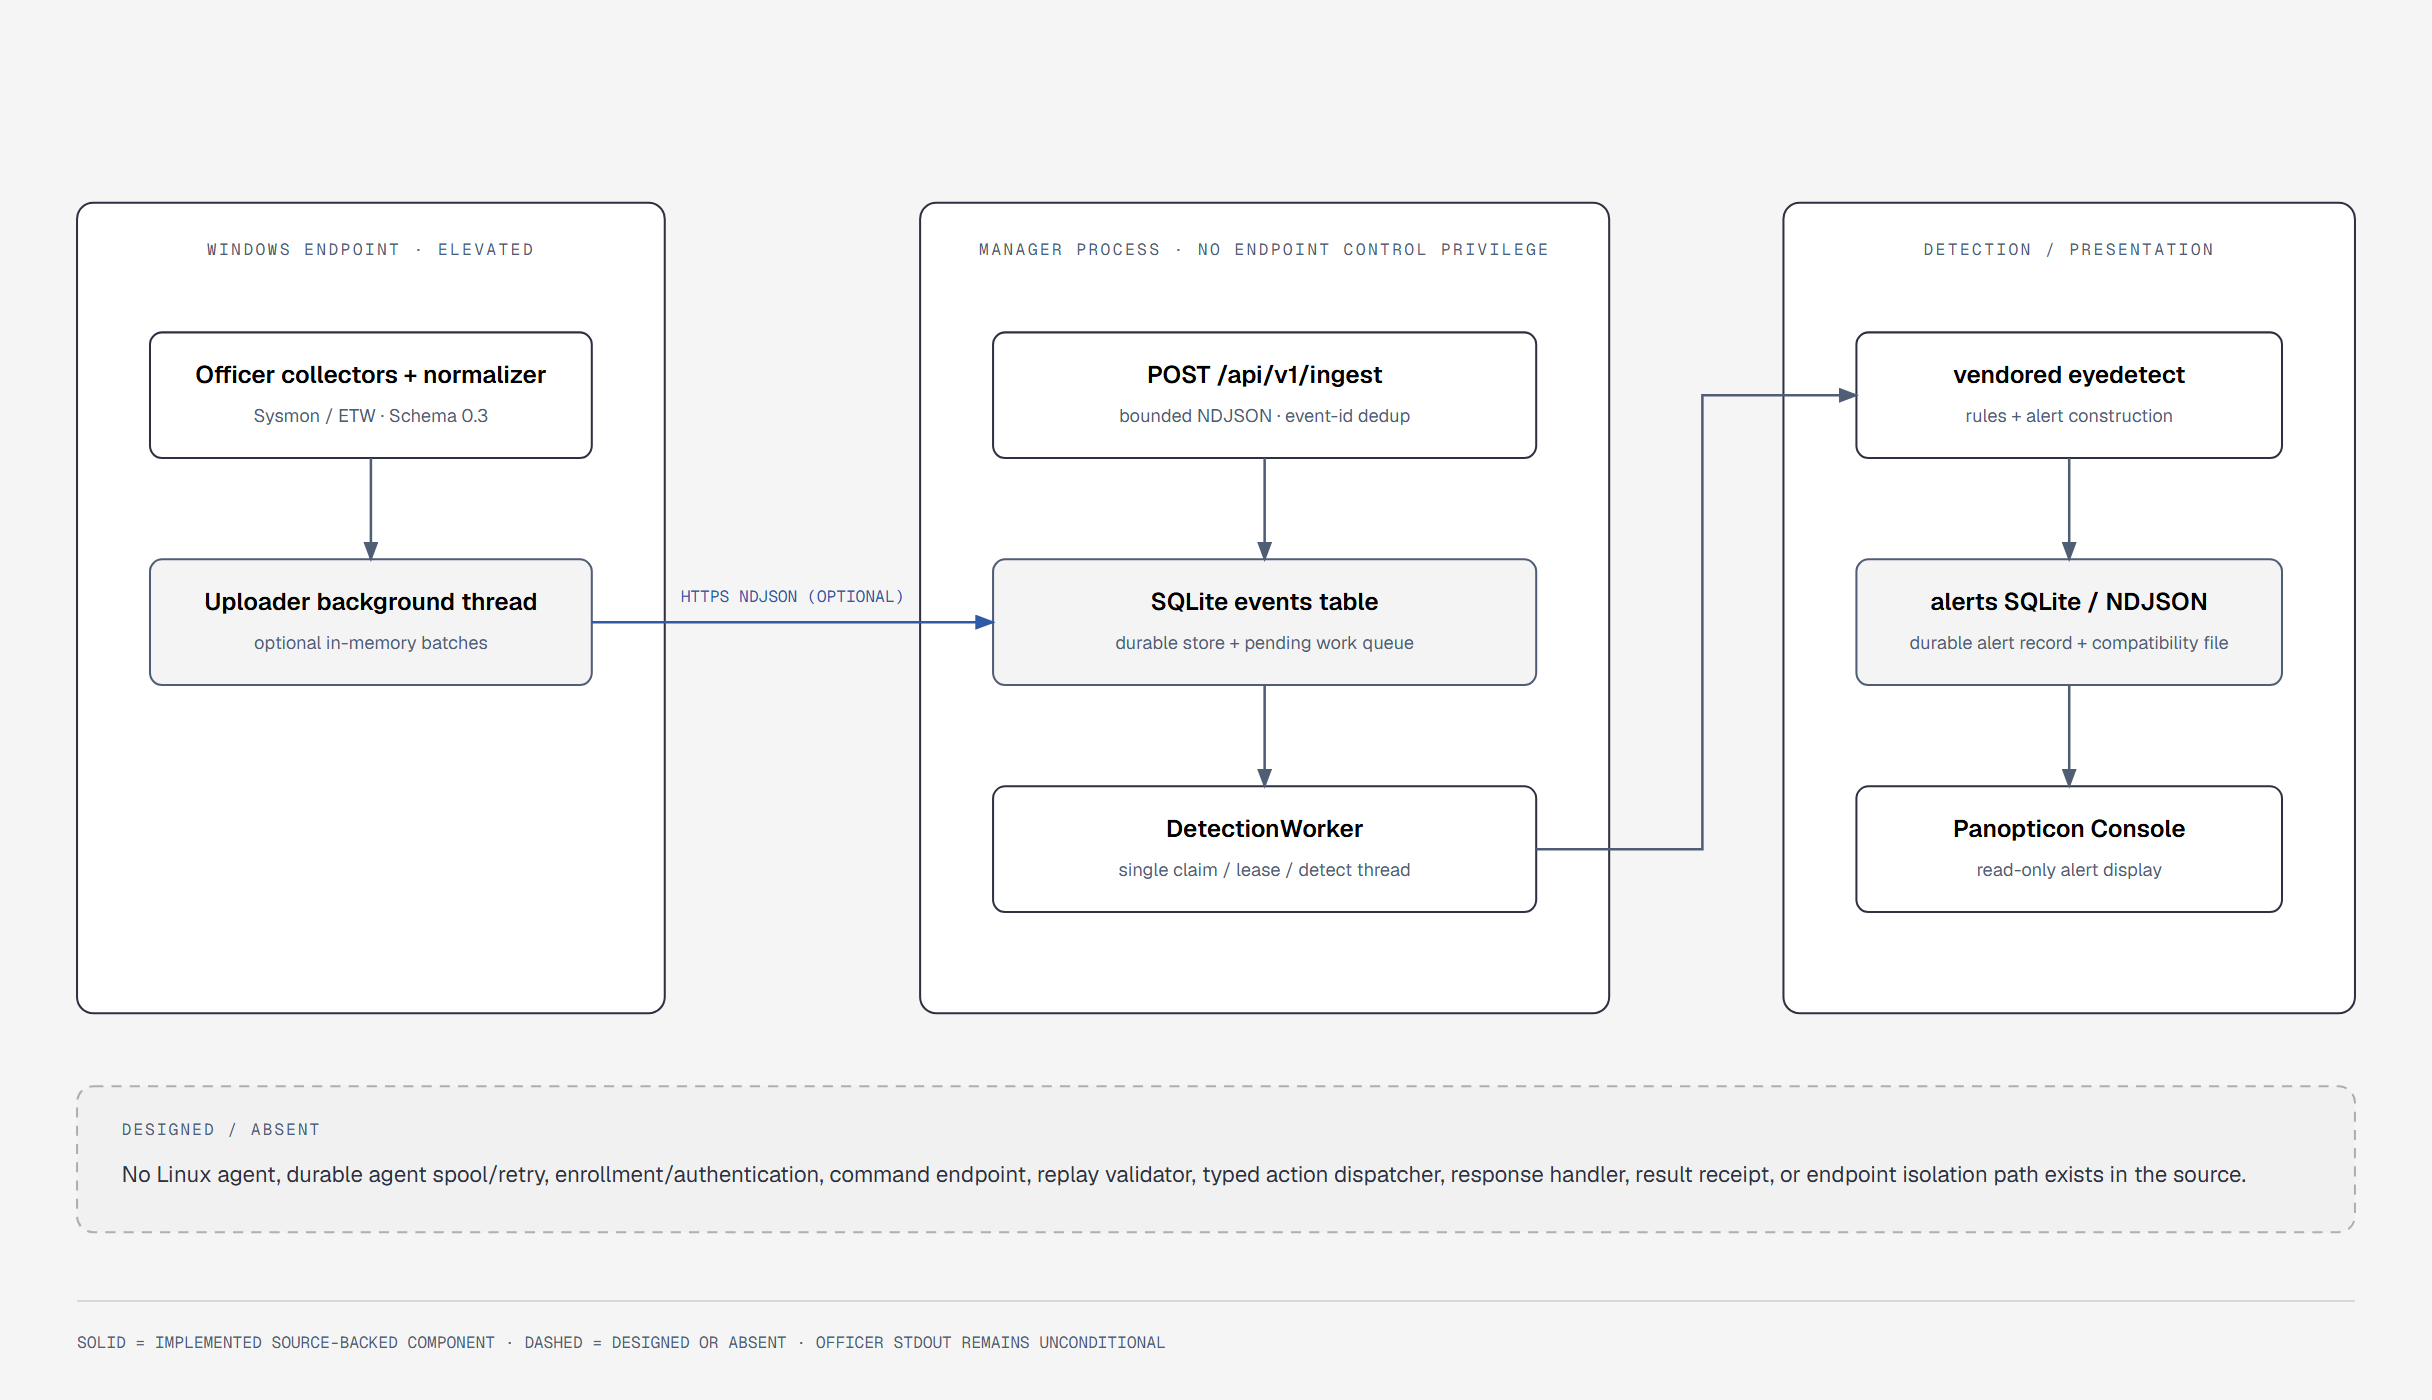
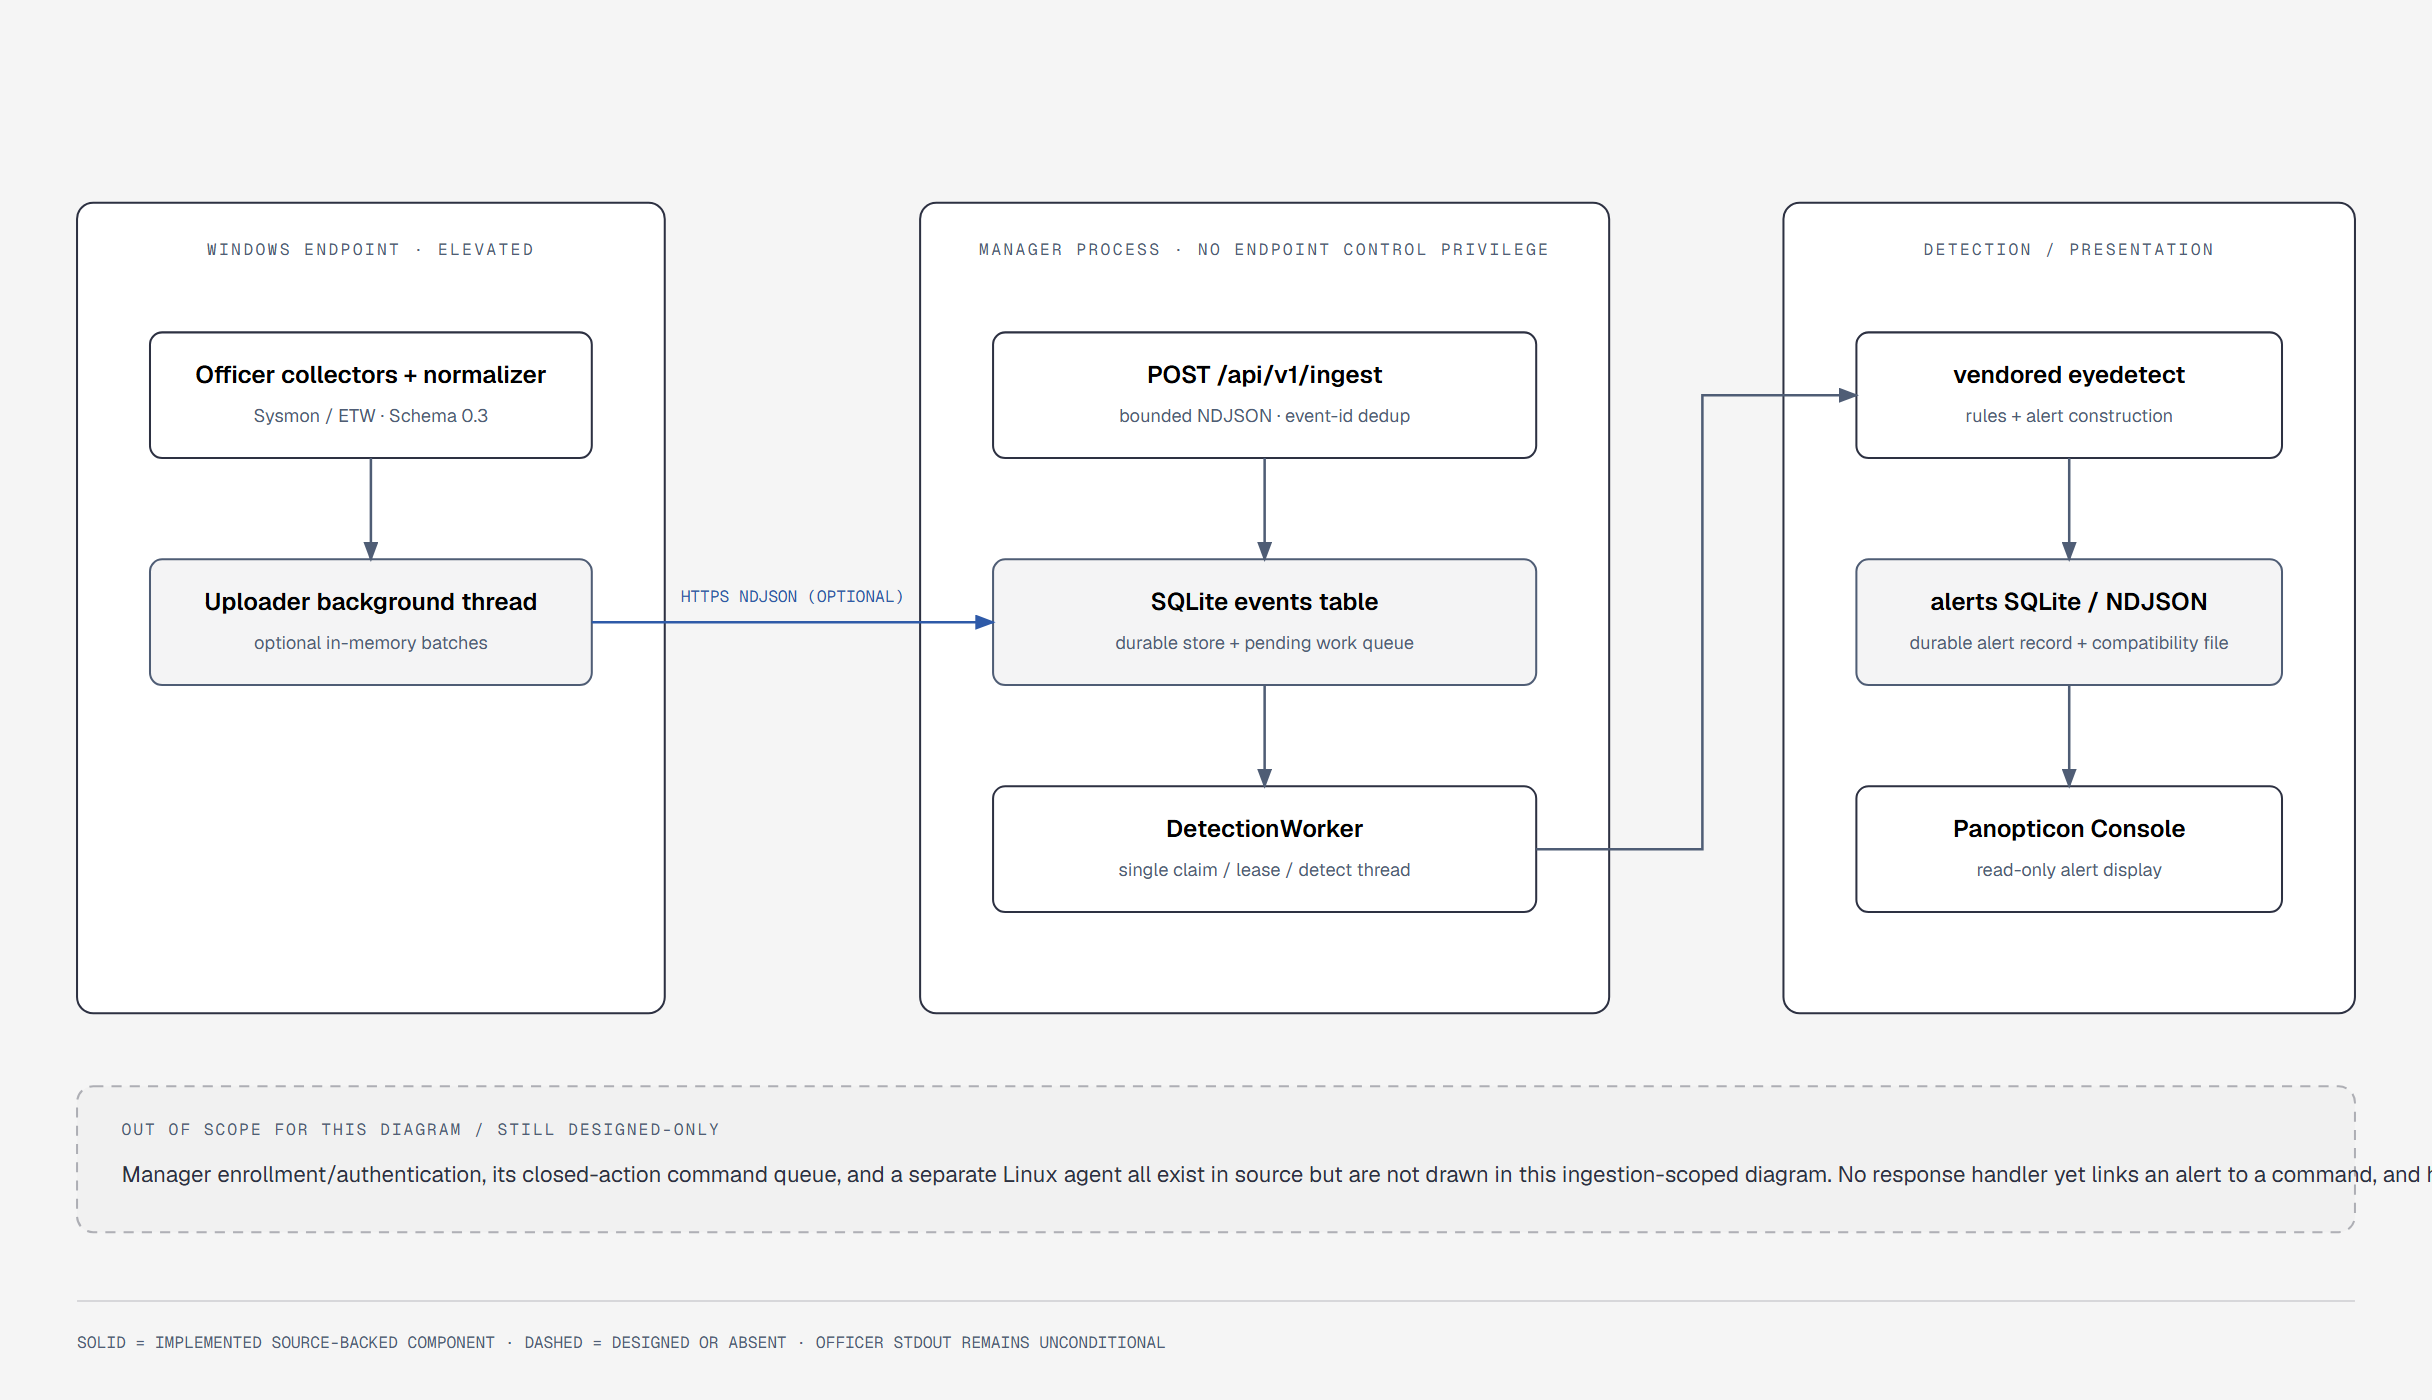
fix: correct stale source-consistency checks and wire validate.py into CI
Two invariants in _tooling/validate.py had drifted false against real
source, undetected because this repo had no CI running the validator at
all:

- SCHEMA VERSIONS asserted panopticon-agent's schema_version enum was
  exactly {0.2, 0.3}, but it has legitimately included "0.4" since
  commit 5d53085 (Linux procfs telemetry source).
- NO COMMAND RECEIVER asserted /api/v1/commands did not exist in
  Manager source, but Manager's closed, authenticated command queue
  (commands.py) has existed since commit d3e4252.

Replaced the negative assertion with positive checks scoped to
manager/routers/commands.py specifically: the endpoint requires the
shared command token via hmac.compare_digest, the action set is exactly
the closed 7-tuple, and no shell-exec primitive appears in that file.
Also excludes the vendored eyedetect submodule from manager_src (it has
its own legitimate subprocess usage for spawning the Officer agent
during ingestion, unrelated to command execution) to avoid false
positives in the new check.

Also corrects the network-ingestion diagram's own accessible text and
DIAGRAM_SPECIFICATION.md prose, which made the same now-false claims
(no Linux agent / enrollment / authentication / command endpoint
implementation) -- all of these exist in source as of 2026-09-13. PNG
regenerated from the corrected SVG via _tooling/export_png.py.

Adds .github/workflows/validate.yml so this validator actually runs on
[…]

Changed region(s): [[0.0625, 0.7986, 1.0, 0.86]]

diff --git a/architecture/panopticon-network-ingestion.html b/architecture/panopticon-network-ingestion.html
@@ -17,7 +17,7 @@
     <h1>Implemented Officer-to-Manager network ingestion</h1>
     <svg viewBox="0 0 1200 690" xmlns="http://www.w3.org/2000/svg" role="img" aria-labelledby="network-title network-desc">
       <title id="network-title">Implemented Panopticon Network Ingestion</title>
-      <desc id="network-desc">Officer on an elevated Windows endpoint collects and normalizes telemetry, writes NDJSON to standard output, and optionally sends in-memory batches over HTTPS to Manager. Manager validates and durably stores events in SQLite, then its single detection worker claims events and invokes its vendored eyedetect engine. There is no Linux agent, endpoint command receiver, response handler, durable agent spool, enrollment, or authentication implementation.</desc>
+      <desc id="network-desc">Officer on an elevated Windows endpoint collects and normalizes telemetry, writes NDJSON to standard output, and optionally sends in-memory batches over HTTPS to Manager. Manager validates and durably stores events in SQLite, then its single detection worker claims events and invokes its vendored eyedetect engine. This diagram's scope is ingestion only: it does not depict Manager's separate enrollment/authentication, closed-action command queue, or the Linux agent, all of which exist elsewhere in source but are undrawn here. No response handler links an alert to a command.</desc>
       <defs><marker id="a" markerWidth="8" markerHeight="6" refX="7" refY="3" orient="auto"><path d="M0,0 L8,3 L0,6z" fill="#4f5d75"/></marker><marker id="b" markerWidth="8" markerHeight="6" refX="7" refY="3" orient="auto"><path d="M0,0 L8,3 L0,6z" fill="#2e5aa8"/></marker></defs>
       <rect width="1200" height="690" fill="#f5f5f5"/>
       <rect x="38" y="100" width="290" height="400" rx="8" fill="#fff" stroke="#2d3142"/><text x="183" y="126" text-anchor="middle" font-family="Geist Mono,monospace" font-size="8" fill="#4f5d75" letter-spacing="1.2">WINDOWS ENDPOINT &middot; ELEVATED</text>
@@ -33,7 +33,7 @@
       <rect x="916" y="388" width="210" height="62" rx="6" fill="#fff" stroke="#2d3142"/><text x="1021" y="413" font-size="12" font-weight="600">Panopticon Console</text><text x="1021" y="432" font-size="9" fill="#4f5d75">read-only alert display</text></g>
       <g fill="none" stroke="#4f5d75" stroke-width="1.25" marker-end="url(#a)"><path d="M183 226V276"/><path d="M292 307H490" stroke="#2e5aa8" marker-end="url(#b)"/><path d="M624 226V276"/><path d="M624 338V388"/><path d="M758 419H840V195H916"/><path d="M1021 226V276"/><path d="M1021 338V388"/></g>
       <text x="391" y="297" font-family="Geist Mono,monospace" font-size="8" fill="#2e5aa8" text-anchor="middle">HTTPS NDJSON (OPTIONAL)</text>
-      <rect x="38" y="536" width="1124" height="72" rx="8" fill="rgba(45,49,66,.02)" stroke="rgba(45,49,66,.35)" stroke-dasharray="5,4"/><text x="60" y="560" font-family="Geist Mono,monospace" font-size="8" fill="#4f5d75" letter-spacing="1">DESIGNED / ABSENT</text><text x="60" y="583" font-family="Geist, sans-serif" font-size="11" fill="#2d3142">No Linux agent, durable agent spool/retry, enrollment/authentication, command endpoint, replay validator, typed action dispatcher, response handler, result receipt, or endpoint isolation path exists in the source.</text>
+      <rect x="38" y="536" width="1124" height="72" rx="8" fill="rgba(45,49,66,.02)" stroke="rgba(45,49,66,.35)" stroke-dasharray="5,4"/><text x="60" y="560" font-family="Geist Mono,monospace" font-size="8" fill="#4f5d75" letter-spacing="1">OUT OF SCOPE FOR THIS DIAGRAM / STILL DESIGNED-ONLY</text><text x="60" y="583" font-family="Geist, sans-serif" font-size="11" fill="#2d3142">Manager enrollment/authentication, its closed-action command queue, and a separate Linux agent all exist in source but are not drawn in this ingestion-scoped diagram. No response handler yet links an alert to a command, and host isolation is unimplemented.</text>
       <line x1="38" y1="642" x2="1162" y2="642" stroke="rgba(45,49,66,.15)"/><text x="38" y="665" font-family="Geist Mono,monospace" font-size="8" fill="#4f5d75">SOLID = IMPLEMENTED SOURCE-BACKED COMPONENT &middot; DASHED = DESIGNED OR ABSENT &middot; OFFICER STDOUT REMAINS UNCONDITIONAL</text>
     </svg>
   </div>

diff --git a/_tooling/validate.py b/_tooling/validate.py
@@ -11,7 +11,7 @@ AGENT = WORKSPACE / "panopticon-agent"
 ENGINE = WORKSPACE / "panopticon-detection-engine"
 CONSOLE = WORKSPACE / "panopticon-console"
 MANAGER = WORKSPACE / "panopticon-manager"
-SKIP = (".git", ".venv", "build-officer-x64", "__pycache__", ".pytest_cache")
+SKIP = (".git", ".venv", "build-officer-x64", "__pycache__", ".pytest_cache", "vendor")
 
 missing = [str(p) for p in (AGENT, MANAGER, ENGINE, CONSOLE) if not p.is_dir()]
 if missing:
@@ -90,7 +90,7 @@ for f in ("operation","key_path","value_name","value_type","value_data"):
 for f in ("path","is_signed","signature_status","hash"):
     check("MISSING image_load field", f in props["image_load"]["properties"], f)
 
-check("SCHEMA VERSIONS", set(props["schema_version"]["enum"]) == {"0.2","0.3"}, str(props["schema_version"]["enum"]))
+check("SCHEMA VERSIONS", set(props["schema_version"]["enum"]) == {"0.2","0.3","0.4"}, str(props["schema_version"]["enum"]))
 check("CATEGORY ENUM", set(props["event"]["properties"]["category"]["enum"]) == {"process","network","file","registry","image_load"}, "")
 check("STRICT SCHEMA", schema.get("additionalProperties") is False, "")
 check("PROCESS ALWAYS REQUIRED", "process" in schema["required"], "")
@@ -121,7 +121,16 @@ check("MANAGER INGEST ROUTE", '@router.post("/api/v1/ingest"' in manager_src, ""
 check("MANAGER EVENT DEDUP", "INSERT OR IGNORE INTO events" in manager_src, "")
 check("MANAGER DETECTION WORKER", "class DetectionWorker" in manager_src, "")
 check("MANAGER CLAIM LOOP", "detect_state='claimed'" in manager_src, "")
-check("NO COMMAND RECEIVER", "/api/v1/commands" not in manager_src, "")
+command_route_files = [f for f in (MANAGER / "manager" / "routers").glob("commands.py")]
+command_route_src = "\n".join(f.read_text(encoding="utf-8") for f in command_route_files)
+check("COMMAND ROUTE FILE FOUND", bool(command_route_src), "manager/routers/commands.py")
+check("COMMAND ENDPOINT AUTH REQUIRED", "PANOPTICON_COMMAND_TOKEN" in command_route_src and "hmac.compare_digest" in command_route_src, "")
+check("COMMAND ACTION SET CLOSED", set(re.findall(r'"([A-Z_]+)",?\n', command_route_src)) >= {
+    "KILL_PROCESS", "COLLECT_PROCESS_INFO", "COLLECT_NETWORK_CONNECTIONS",
+    "COLLECT_FILE", "QUARANTINE_FILE", "ISOLATE_HOST", "RELEASE_HOST_ISOLATION",
+}, "")
+for danger in ("subprocess", "os.system", "popen(", "os.exec"):
+    check("NO SHELL EXEC IN MANAGER COMMAND ROUTE", danger not in command_route_src, danger + " found in manager/routers/commands.py")
 
 for f in sorted(DIAG.rglob("*.html")):
     t = f.read_text(encoding="utf-8")

diff --git a/DIAGRAM_SPECIFICATION.md b/DIAGRAM_SPECIFICATION.md
@@ -176,10 +176,15 @@ reads its stdout pipe.
 `officer-delivery` path: `Uploader` batches serialized NDJSON in memory on a background
 thread and uses WinHTTP to post it to Manager's `POST /api/v1/ingest`. Manager validates
 and deduplicates bounded batches, commits accepted rows to SQLite, and its single
-`DetectionWorker` claims rows for the vendored eyedetect engine. This does not implement a
-Linux agent, agent durable spool/retry, enrollment/authentication, command receiver,
-response handler, result receipt, or endpoint-control path. Officer needs Windows elevation
-for ETW/Sysmon; Manager consumes normalized input and has no endpoint-control privilege.
+`DetectionWorker` claims rows for the vendored eyedetect engine. Officer needs Windows
+elevation for ETW/Sysmon; Manager consumes normalized input and has no endpoint-control
+privilege. The network-ingestion diagram is scoped to this path only — it does not depict
+Manager's separately-implemented agent enrollment/bearer authentication or its closed-action
+command queue (`POST`/`GET`/`POST` on `/api/v1/commands`, `/agents/{id}/commands`,
+`/agents/{id}/command-results`), nor the separate `panopticon-linux-agent` repository, all of
+which exist in source as of 2026-09-13. What remains genuinely unimplemented anywhere in the
+system: a response engine linking a detection/alert to command creation (no code path
+connects the two), analyst authorization/approval of a response, and host isolation.
 
 ---
 
